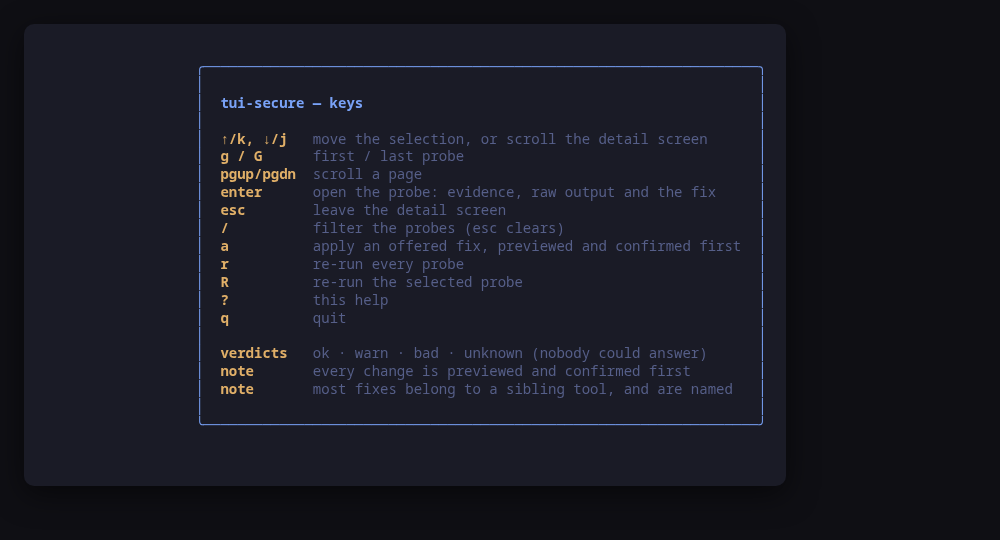
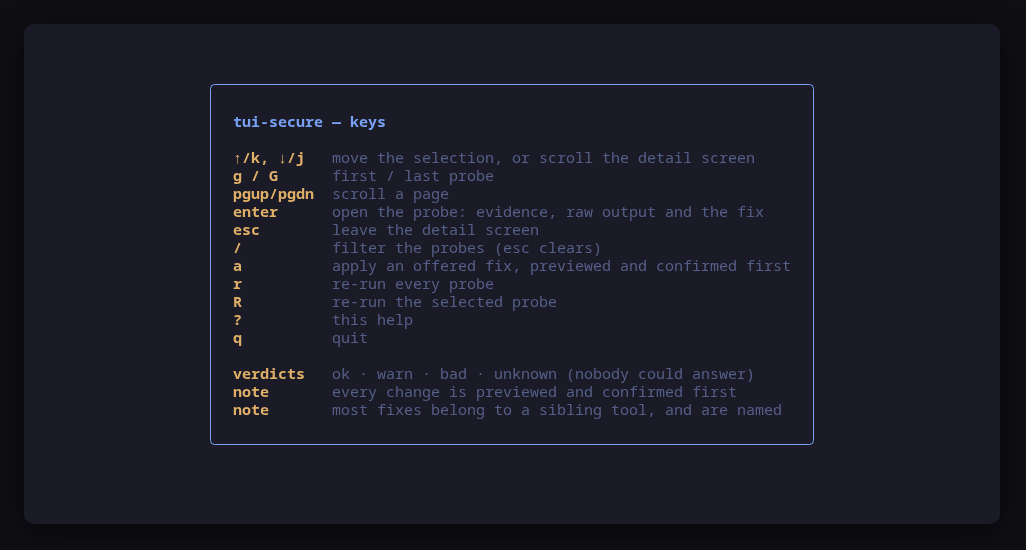
0.2.3: tui-kit v0.4.4
tui-secure 0.2.3 moves to tui-kit v0.4.4: every probe and fix now runs in its own session without a controlling terminal, so a step that would prompt fails at once instead of hanging behind the UI, and a failed step reports its meaningful line, cleaned of escape codes. Command previews are POSIX shell-quoted, the README screenshots are re-rendered with continuous box borders, and the README banner now carries the kit's stability markers.

Claude-Session: https://claude.ai/code/session_01MbCfX3T8khyd9hsrN5kMo3

Changed region(s): [[0.186, 0.1185, 0.806, 0.8], [0.031, 0.8889, 0.775, 0.9185]]

diff --git a/README.md b/README.md
@@ -3,9 +3,11 @@
 [![OpenSSF Scorecard](https://api.securityscorecards.dev/projects/github.com/tui-tools/tui-secure/badge)](https://scorecard.dev/viewer/?uri=github.com/tui-tools/tui-secure)
 [![OpenSSF Best Practices](https://www.bestpractices.dev/projects/14368/badge)](https://www.bestpractices.dev/projects/14368)
 
+<!-- stability:start -->
 > **Beta.** The family is days old and still changing. Package names, flags
 > and keys may move without notice until 1.0. Pin versions, and report what
 > breaks.
+<!-- stability:end -->
 
 One screen for the security posture of one Linux machine. Eight probes — Secure
 Boot, the MAC layer, the firewall, sshd, pending updates, accounts, kernel
@@ -129,7 +131,7 @@ Upgrades then arrive with the rest of your system updates.
 ### Any distribution, static binary
 
 ```sh
-curl -fsSL https://github.com/tui-tools/tui-secure/releases/download/v0.2.2/tui-secure_0.2.2_linux_amd64.tar.gz | tar -xz tui-secure
+curl -fsSL https://github.com/tui-tools/tui-secure/releases/download/v0.2.3/tui-secure_0.2.3_linux_amd64.tar.gz | tar -xz tui-secure
 sudo install -m0755 tui-secure /usr/local/bin/tui-secure
 ```
 
